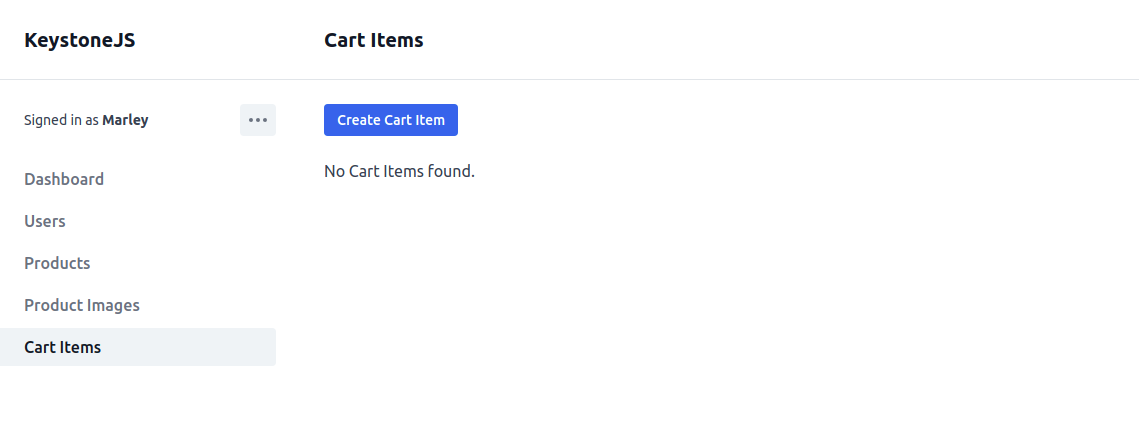
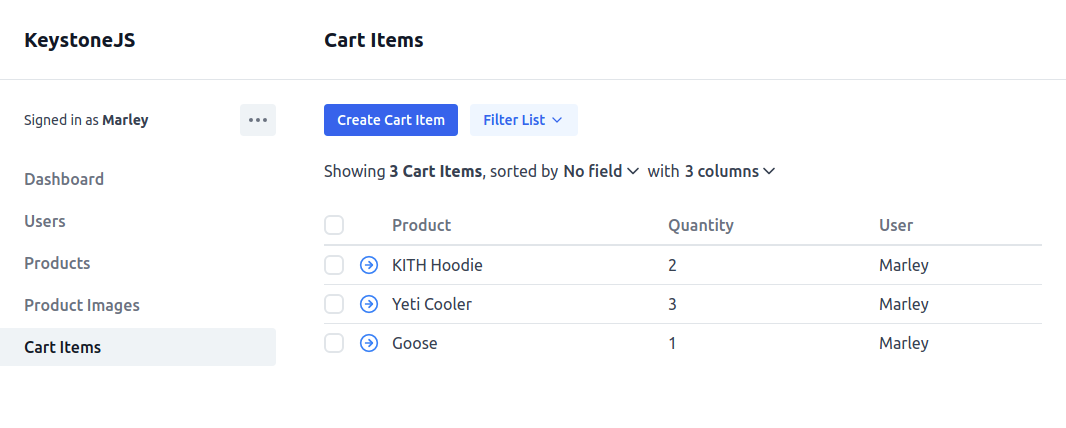
09 - Shopping Cart Development | 44 - Cart - Displaying Items in a Custom Component

diff --git a/app/frontend/components/Cart.js b/app/frontend/components/Cart.js
@@ -1,0 +1,65 @@
+import CartStyles from 'components/styles/CartStyles';
+import Supreme from 'components/styles/Supreme';
+import { useUser } from 'components/User';
+import calcTotalPrice from 'lib/calcTotalPrice';
+import formatMoney from 'lib/formatMoney';
+import styled from 'styled-components';
+
+const CartItemStyles = styled.li`
+  padding: 1rem 0;
+  border-bottom: 1px solid var(--lightGrey);
+  display: grid;
+  grid-template-columns: auto 1fr auto;
+  img {
+    margin-right: 1rem;
+  }
+  h3,
+  p {
+    margin: 0;
+  }
+`;
+
+function CartItem({ cartItem }) {
+  const { product } = cartItem;
+
+  if (!product) return null;
+
+  return (
+    <CartItemStyles>
+      <img
+        width="100"
+        src={product.photo.image.publicUrlTransformed}
+        alt={product.name}
+      />
+      <div>
+        <h3>{product.name}</h3>
+        <p>
+          {formatMoney(product.price * cartItem.quantity)}-
+          <em>
+            {cartItem.quantity} &times; {formatMoney(product.price)} each
+          </em>
+        </p>
+      </div>
+    </CartItemStyles>
+  );
+}
+
+export default function Cart() {
+  const me = useUser();
+  if (!me) return null;
+  return (
+    <CartStyles open>
+      <header>
+        <Supreme>{me.name}'s Cart</Supreme>
+      </header>
+      <ul>
+        {me.cart.map((cartItem) => (
+          <CartItem key={cartItem.id} cartItem={cartItem} />
+        ))}
+      </ul>
+      <footer>
+        <p>{formatMoney(calcTotalPrice(me.cart))}</p>
+      </footer>
+    </CartStyles>
+  );
+}

diff --git a/app/frontend/components/User.js b/app/frontend/components/User.js
@@ -8,6 +8,21 @@ export const CURRENT_USER_QUERY = gql`
         id
         email
         name
+        cart {
+          id
+          quantity
+          product {
+            id
+            price
+            name
+            description
+            photo {
+              image {
+                publicUrlTransformed
+              }
+            }
+          }
+        }
       }
     }
   }

diff --git a/app/frontend/components/Header.js b/app/frontend/components/Header.js
@@ -1,3 +1,4 @@
+import Cart from 'components/Cart';
 import Nav from 'components/Nav';
 import Link from 'next/link';
 import styled from 'styled-components';
@@ -46,6 +47,7 @@ export default function Header() {
       <div className="sub-bar">
         <p>Search</p>
       </div>
+      <Cart />
     </HeaderStyles>
   );
 }

diff --git a/app/frontend/lib/calcTotalPrice.js b/app/frontend/lib/calcTotalPrice.js
@@ -1,0 +1,6 @@
+export default function calcTotalPrice(cart) {
+  return cart.reduce((tally, cartItem) => {
+    if (!cartItem.product) return tally;
+    return tally + cartItem.quantity * cartItem.product.price;
+  }, 0);
+}

diff --git a/Development.md b/Development.md
@@ -299,9 +299,19 @@ Address endings on 0.
 
 ### 43 - Cart - Creating the Data Type and Two Way Relationships
 
+Need to manually create some CartItems
+
 <br/>
 
 ![Application](/img/pic-09-01.png?raw=true)
+
+<br/>
+
+### 44 - Cart - Displaying Items in a Custom Component
+
+<br/>
+
+![Application](/img/pic-09-02.png?raw=true)
 
 <br/><br/>
 
